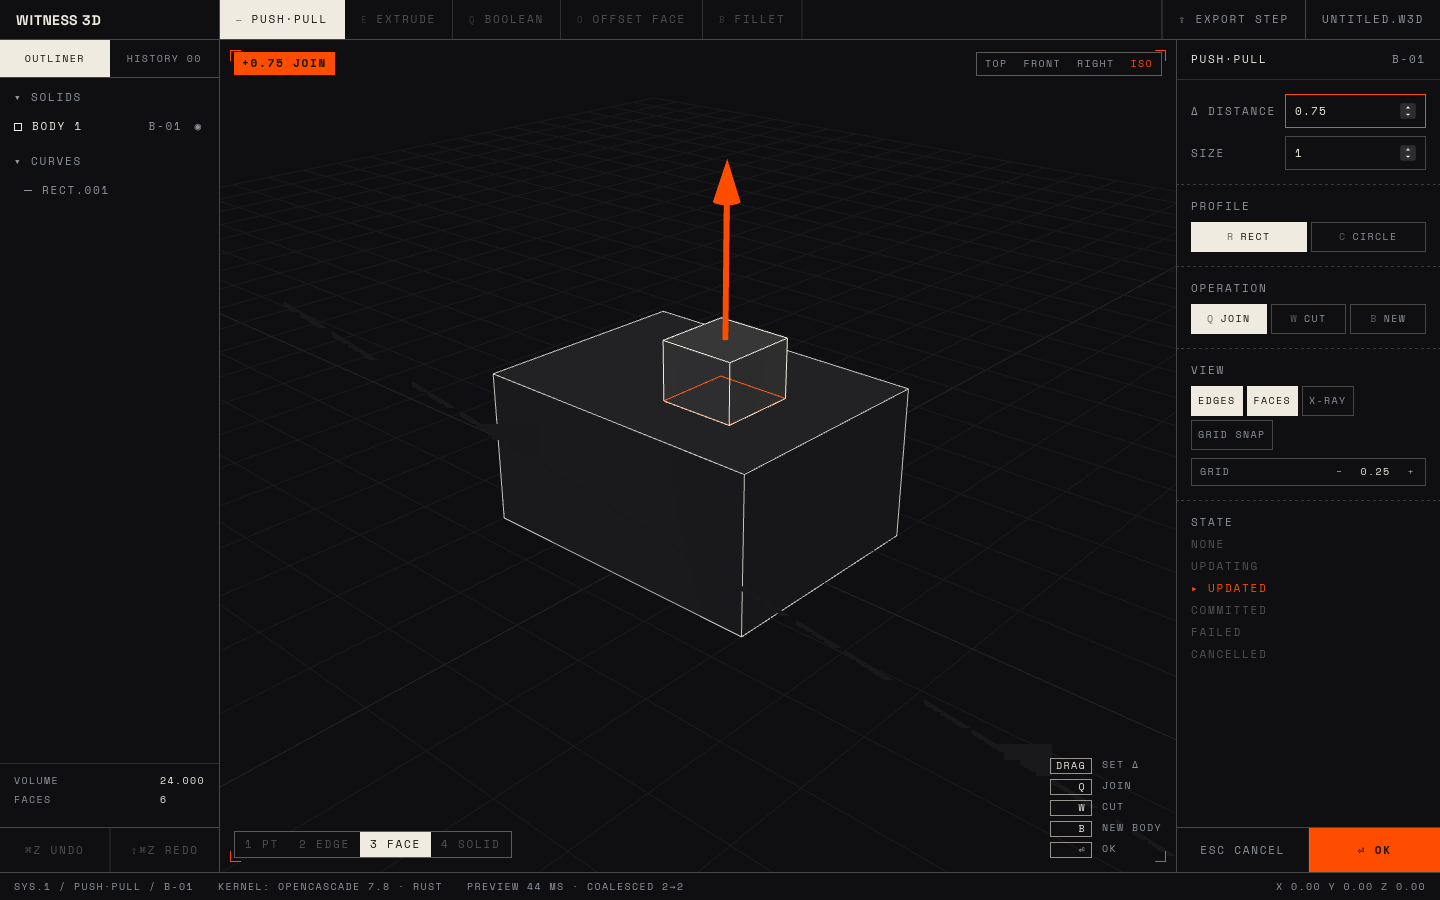
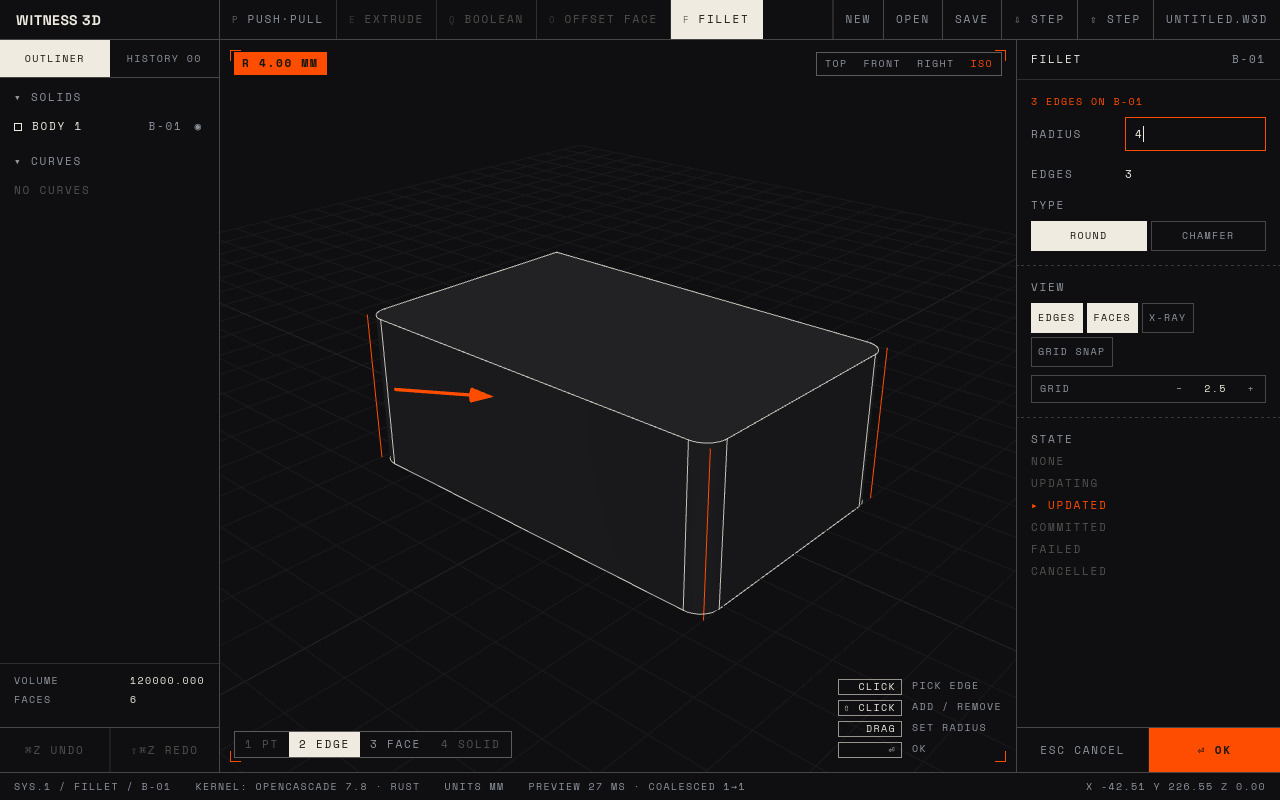
Pick edges on the committed body during a fillet preview; compact the top bar
Edges were picked only on visible meshes, and the preview hides the body it replaces, so
only the first edge of a fillet could be clicked. Also clear the hover highlight when the
scene changes, and loosen the desktop fillet test to the display mesh's accuracy.

Claude-Session: https://claude.ai/code/session_016q93Wrc4vASXkEveDknY4x

diff --git a/web/src/app/App.js b/web/src/app/App.js
@@ -45,8 +45,8 @@ const SHELL = `
     <button class="export" data-id="file-new" hidden>NEW</button>
     <button class="export" data-id="file-open" hidden>OPEN</button>
     <button class="export" data-id="file-save" hidden>SAVE</button>
-    <button class="export" data-id="import" hidden>⇩ IMPORT STEP</button>
-    <button class="export" data-id="export" disabled>⇪ EXPORT STEP</button>
+    <button class="export" data-id="import" hidden title="Import a STEP file">⇩ STEP</button>
+    <button class="export" data-id="export" disabled title="Export STEP">⇪ STEP</button>
     <span class="file" data-id="file-name">UNTITLED.W3D</span>
   </header>
 
@@ -258,6 +258,9 @@ export async function mount(root, backend) {
     $('faces').textContent = list.reduce((n, b) => n + b.facePlanes.length, 0);
     $('export').disabled = list.length === 0;
     renderOutliner();
+    // Edge numbers belong to the bodies just replaced.
+    hoverEdge = null;
+    drawOverlays();
   }
 
   // --- outliner and history -----------------------------------------------
@@ -551,11 +554,12 @@ export async function mount(root, backend) {
   /** The edge under the pointer, if it is not hidden behind a face. */
   function pickEdge(event) {
     ray(event);
-    const visible = bodies.children.filter(m => m.visible);
+    // Pick on the committed bodies even while a preview stands in for one: edge numbers refer to them.
+    const visible = bodies.children.filter(m => !hidden.has(m.userData.id));
     raycaster.params.Line.threshold = camera.position.distanceTo(controls.target) * 0.008;
     const hits = raycaster.intersectObjects(visible.map(m => m.children[0]), false);
     if (!hits.length) return null;
-    const face = raycaster.intersectObjects(visible, false)[0];
+    const face = raycaster.intersectObjects(visible, false)[0]; // a face in front hides the edge
     const hit = hits.find(h => !face || h.distance <= face.distance + face.distance * 0.01);
     if (!hit) return null;
     const segment = hit.index / 2;

diff --git a/web/src/app/app.css b/web/src/app/app.css
@@ -29,12 +29,12 @@ button:focus-visible, input:focus-visible { outline: 1px solid var(--accent); ou
 .bar { grid-column: 1 / -1; display: flex; align-items: stretch; border-bottom: 1px solid var(--rule); min-width: 0; overflow: hidden; }
 .brand { display: flex; align-items: center; width: 220px; flex: none; padding: 0 16px; border-right: 1px solid var(--rule); font: 700 14px var(--font-brand); letter-spacing: 0.5px; }
 .tools { display: flex; align-items: stretch; min-width: 0; overflow: hidden; }
-.tool { display: flex; align-items: center; gap: 8px; padding: 0 16px; border-right: 1px solid var(--rule-soft); white-space: nowrap; color: var(--muted); }
+.tool { display: flex; align-items: center; gap: 8px; padding: 0 12px; border-right: 1px solid var(--rule-soft); white-space: nowrap; color: var(--muted); }
 .tool kbd { font: inherit; font-size: 9px; opacity: 0.6; }
 .tool[aria-pressed="true"] { background: var(--ink); color: var(--on-accent); }
 .tool:disabled { color: var(--dim); }
 .bar .spacer { flex: 1 1 0; min-width: 0; }
-.bar .file, .bar .export { display: flex; align-items: center; gap: 8px; padding: 0 16px; border-left: 1px solid var(--rule); color: var(--muted); white-space: nowrap; }
+.bar .file, .bar .export { display: flex; align-items: center; gap: 8px; padding: 0 12px; border-left: 1px solid var(--rule); color: var(--muted); white-space: nowrap; }
 .bar .export:hover:not(:disabled) { color: var(--ink); background: var(--hover); }
 .bar .export:disabled { color: var(--dim); }
 

diff --git a/apps/desktop/src-tauri/tests/api.rs b/apps/desktop/src-tauri/tests/api.rs
@@ -90,7 +90,8 @@ fn fillet_previews_commits_and_undoes() {
 
     let preview = api::preview_blend(&m, req.clone()).expect("not superseded").unwrap();
     let rounded = 120_000.0 - 4.0 * (16.0 - std::f64::consts::PI * 4.0) * 30.0;
-    assert!((preview.volume - rounded).abs() < 2.0, "{}", preview.volume);
+    // Volume comes from the display mesh (0.05 mm chords), which cuts inside the true rounds.
+    assert!((preview.volume - rounded).abs() < 15.0, "{}", preview.volume);
     close(api::scene(&m).unwrap()[0].volume, 120_000.0);
 
     let c = api::commit_blend(&m, req).unwrap();

diff --git a/apps/desktop/README.md b/apps/desktop/README.md
@@ -3,17 +3,19 @@
 The Rust modeling core (`crates/w3d-kernel`, OpenCascade) in a [Tauri](https://tauri.app) window,
 with the same UI as the web page (`web/src/app`) as its face.
 
-![Pulling a boss out of a box: the bone phantom is the join preview](screenshot.png)
+![Rounding three edges of the enclosure by 4 mm: the preview, with the radius handle on the first edge](screenshot.png)
 
 Geometry never runs in the page. The viewport sends each drag to Rust as an `ExtrudeRequest`. The
 model lives on its own thread (`w3d_kernel::engine`), and when drags pile up behind a slow
 boolean it computes only the newest and answers the rest with `null`. The HUD counts both. What
 comes back is a mesh tagged with B-rep face ids and the plane of every flat face, which is how a
-click knows where a sketch can go.
+click knows where a sketch can go. Edges come back once each, in OpenCascade's numbering, so a
+click on an edge names the edge a fillet or chamfer request sends back. A failed fillet returns
+`{ message, edges }` so the viewport can say why and mark the edges the kernel blamed.
 
 | File | What it does |
 |---|---|
-| `src-tauri/src/api.rs` | The commands as plain functions: scene, preview, commit, undo, redo, STEP export |
+| `src-tauri/src/api.rs` | The commands as plain functions: scene, extrude and fillet/chamfer preview and commit, undo, redo, new, save, open, STEP import and export |
 | `src-tauri/src/lib.rs` | Tauri wiring; each command waits on the model thread off the async runtime |
 | `ui/main.js` | Mounts the shared UI with a backend that calls the Rust commands; bundles the fonts |
 | `web/src/app/App.js` | The UI itself, shared with the web page: viewport, picking, outliner, history, inspector |

diff --git a/README.md b/README.md
@@ -1,13 +1,15 @@
 # Witness 3D
 
-A direct modeler in the spirit of Plasticity: exact B-rep solids, live push/pull previews, and
-whole-document undo, on the OpenCascade kernel.
+A direct modeler in the spirit of Plasticity: exact B-rep solids, live push/pull previews, edge
+fillets and chamfers, and whole-document undo, on the OpenCascade kernel. Documents are in
+millimetres and save as `.w3d` files (exact geometry); STEP is for exchange.
 
 | Folder | What it is |
 |---|---|
 | [`web/`](web/) | The push/pull extrude running in the browser: Three.js plus OpenCascade compiled to WebAssembly. Includes the notes on how Plasticity is built, with file and line evidence. |
 | [`apps/desktop/`](apps/desktop/) | The desktop app: the Rust core in a Tauri window with the Three.js viewport. |
-| [`crates/w3d-kernel/`](crates/w3d-kernel/) | The Rust modeling core. Geometry goes through a `Kernel` trait, implemented today by OpenCascade via [opencascade-rs](https://github.com/bschwind/opencascade-rs). It also holds the extrude-to-boolean logic, the document with undo/redo, and the engine thread that keeps previews on the newest drag. |
+| [`crates/w3d-kernel/`](crates/w3d-kernel/) | The Rust modeling core. Geometry goes through a `Kernel` trait, implemented today by OpenCascade via [opencascade-rs](https://github.com/bschwind/opencascade-rs). It also holds the extrude-to-boolean logic, fillet/chamfer, the native file format, the document with undo/redo, and the engine thread that keeps previews on the newest drag. |
+| [`vendor/`](vendor/) | opencascade-rs 0.3.0 with small Witness 3D additions (checked fillets, edge numbering, BREP text); see its README. |
 
 ## Run it
 
